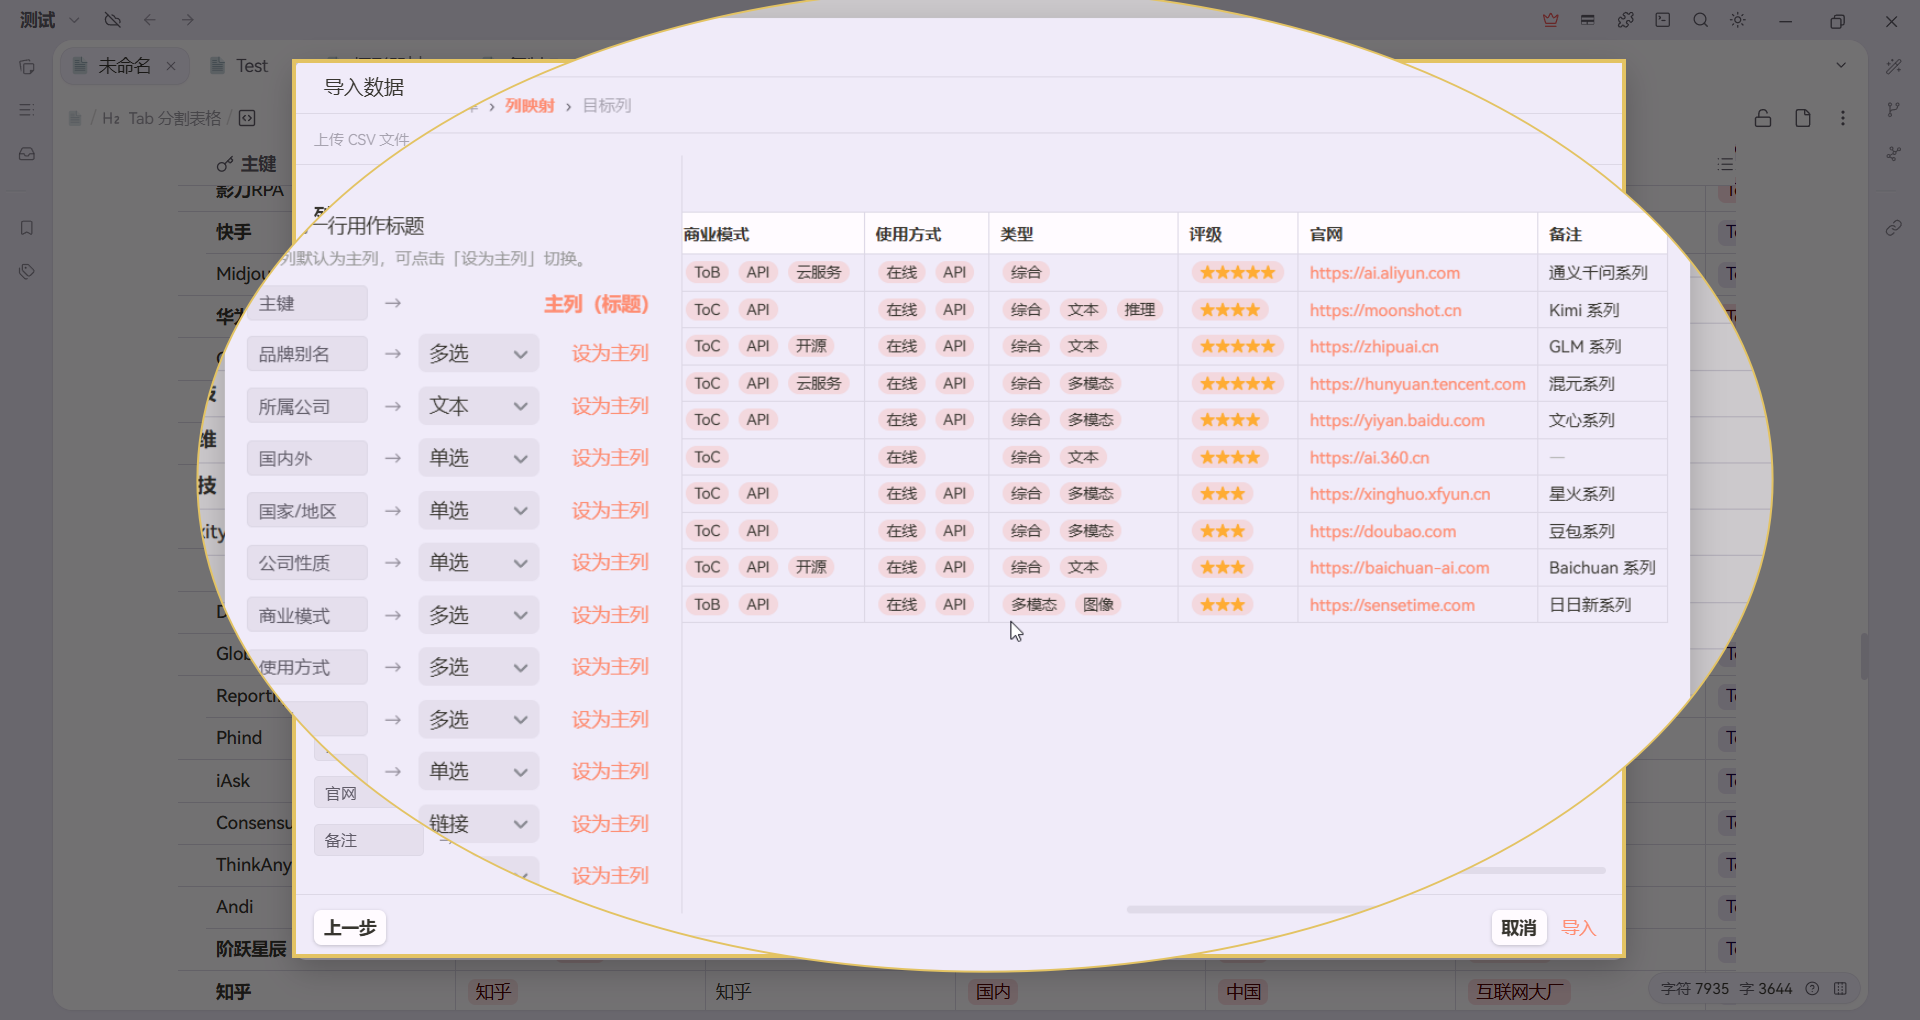
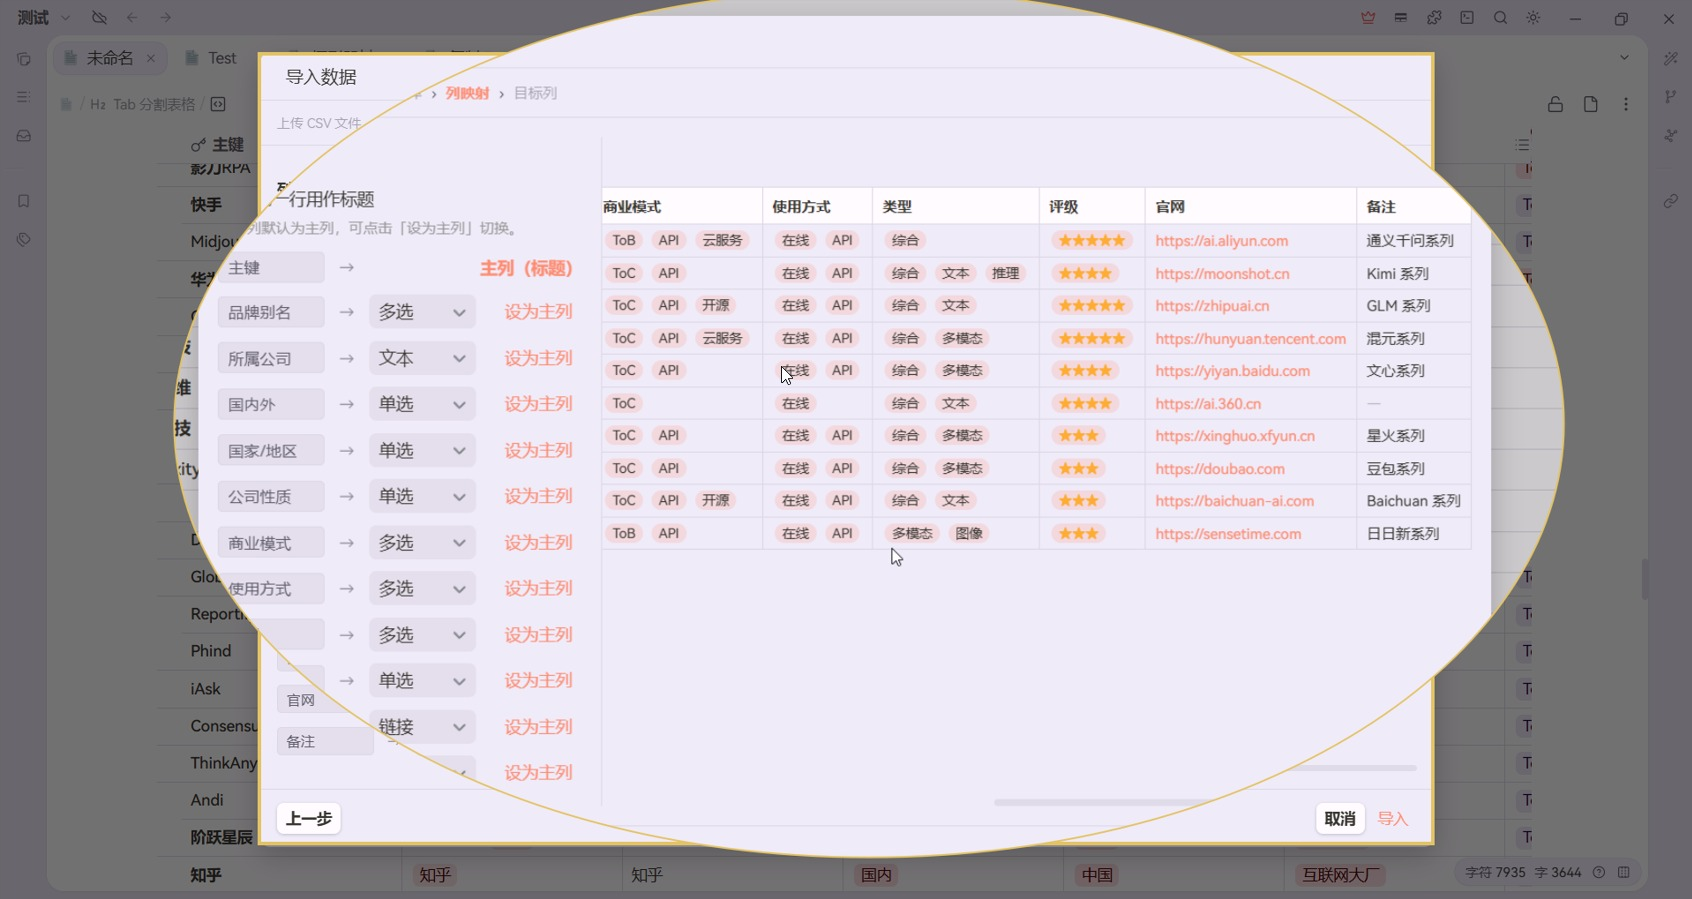
v1.3.0🐶

diff --git a/CHANGELOG.md b/CHANGELOG.md
@@ -1,5 +1,14 @@
 # Changelog
 
+## [1.3.0] - 2026-07-28
+
+### Chore: 更新 preview.png 预览图并升版至 1.3.0
+
+- 替换 `preview.png` 预览图（用户更新，体积 201,184 字节，满足集市 ≤ 200KiB 上限）；
+- `plugin.json` / `package.json` 的 `version` 从 1.2.11 提升至 1.3.0；
+- 重新构建并打包 `package.zip` / `siyuan-table-to-database.zip`（8 个标准条目，不含 `package.json`）；
+- 无代码逻辑变更，issue #1 的修复内容保持不变。
+
 ## [1.2.11] - 2026-07-28
 
 ### Chore: 更新 preview.png 预览图并升版
